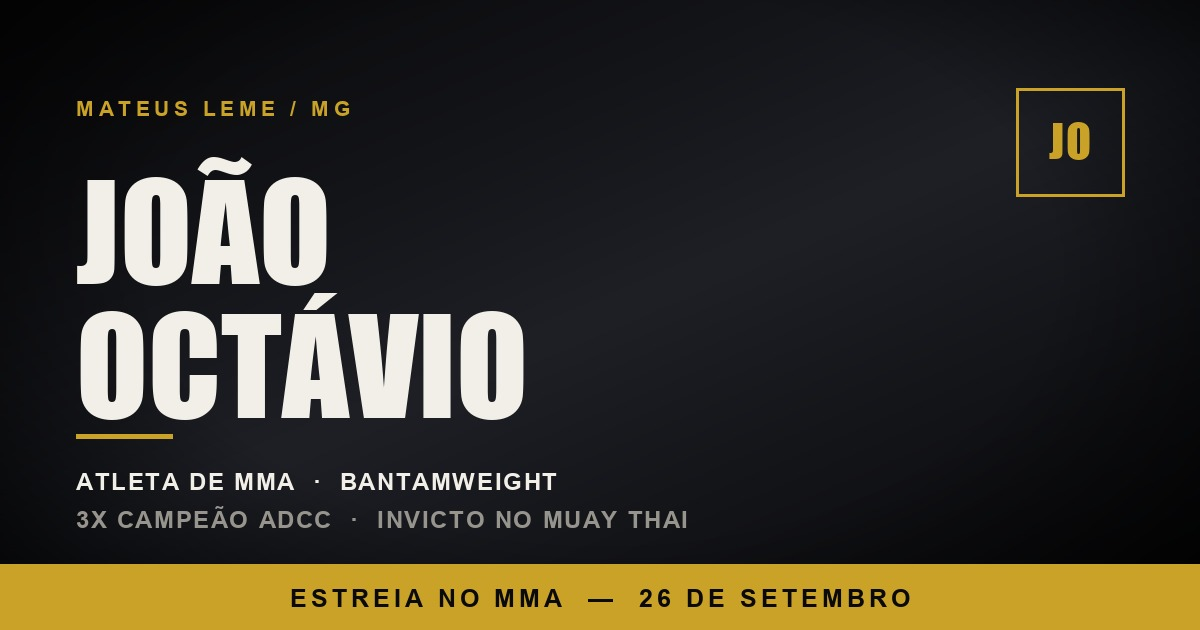
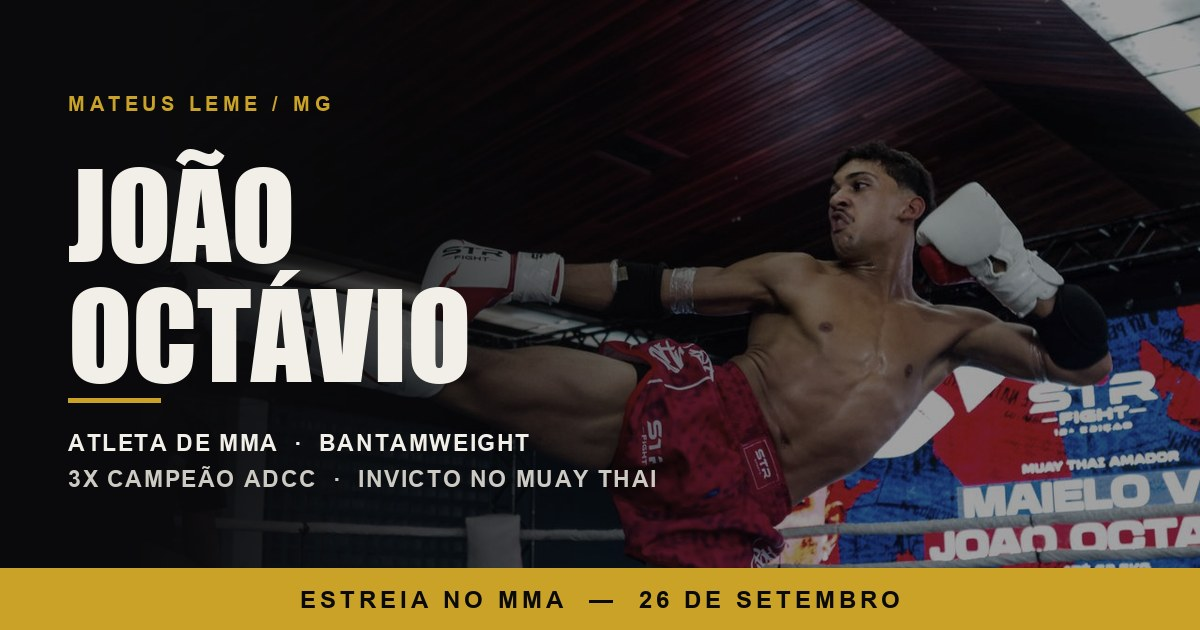
feat: fotos reais do Joao no hero, cartel e rotina; preparacao fisica de manha
- hero full-bleed com a foto do chute alto (S1R Fight)
- podio ADCC Latin America Open na secao de conquistas
- rotina vira 4 cards: preparacao fisica (manha), kickboxing, MMA, grappling
- og-image refeita com a foto real
- credito de foto no rodape

diff --git a/index.html b/index.html
@@ -33,6 +33,7 @@
 <link rel="icon" type="image/png" sizes="512x512" href="/icon-512.png">
 <link rel="apple-touch-icon" href="/apple-touch-icon.png">
 <link rel="manifest" href="/site.webmanifest">
+<link rel="preload" as="image" href="img/hero.jpg" fetchpriority="high">
 <link rel="preconnect" href="https://fonts.googleapis.com">
 <link rel="preconnect" href="https://fonts.gstatic.com" crossorigin>
 <link href="https://fonts.googleapis.com/css2?family=Anton&family=Archivo:wght@400;600;700&display=swap" rel="stylesheet">
@@ -120,13 +121,17 @@ nav{
   background:linear-gradient(160deg,#0A0A0C 0%,#16171B 60%,#0A0A0C 100%);
   position:relative;overflow:hidden;
 }
-/* SUBSTITUIR: foto editorial do João de capuz preto, luz dura, 1400x900px
-   (existe esse ensaio no feed dele — post fixado).
-   Aplicar aqui: .hero-foto{background-image:url('foto-hero.jpg')} */
-.hero-foto{position:absolute;inset:0;background-size:cover;background-position:center 20%;opacity:.55}
+.hero-foto{
+  position:absolute;inset:0;
+  background-image:url('img/hero.jpg');
+  background-size:cover;background-position:68% center;
+  filter:saturate(.62) contrast(1.05);
+}
 .hero::after{
   content:"";position:absolute;inset:0;pointer-events:none;
-  background:radial-gradient(120% 90% at 50% 40%,transparent 30%,rgba(10,10,12,.72) 78%,#0A0A0C 100%);
+  background:
+    linear-gradient(90deg,#0A0A0C 0%,rgba(10,10,12,.95) 24%,rgba(10,10,12,.66) 50%,rgba(10,10,12,.28) 74%,rgba(10,10,12,.5) 100%),
+    linear-gradient(180deg,rgba(10,10,12,.88) 0%,rgba(10,10,12,.15) 30%,rgba(10,10,12,.2) 58%,#0A0A0C 100%);
 }
 .hero .wrap{position:relative;z-index:2}
 .hero h1{font-size:clamp(2.5rem,9.2vw,6.4rem);max-width:16ch}
@@ -145,7 +150,18 @@ nav{
 .cd-uni{font-size:.6rem;font-weight:700;text-transform:uppercase;letter-spacing:.16em;color:var(--mute);margin-top:8px}
 .cd-fim{font-family:'Anton',sans-serif;text-transform:uppercase;font-size:1.15rem;color:var(--dourado);line-height:1.2}
 
+/* === FIGURA DE FOTO (reutilizável) === */
+.foto-card{position:relative;border:1px solid var(--linha);overflow:hidden;background:var(--grafite);margin:0}
+.foto-card img{width:100%;height:auto;display:block;filter:saturate(.72) contrast(1.04)}
+.foto-card figcaption{
+  position:absolute;left:0;right:0;bottom:0;padding:52px 20px 16px;
+  background:linear-gradient(180deg,transparent,rgba(10,10,12,.9));
+  font-size:.71rem;font-weight:700;text-transform:uppercase;letter-spacing:.14em;color:var(--texto);
+}
+.foto-card figcaption b{color:var(--dourado);font-weight:700}
+
 /* === CARTEL === */
+.conq-grid{display:grid;gap:36px;align-items:start}
 .stats{display:grid;grid-template-columns:1fr 1fr;gap:1px;background:var(--linha);border:1px solid var(--linha);margin-top:46px}
 .stat{background:var(--preto);padding:34px 22px}
 .stat-num{font-family:'Anton',sans-serif;font-size:clamp(2.6rem,10vw,4.2rem);color:var(--dourado);line-height:.9}
@@ -168,13 +184,13 @@ nav{
 
 /* === ROTINA === */
 .rotina-grid{display:grid;gap:20px;margin-top:46px}
-.rot-card{background:var(--grafite);border:1px solid var(--linha);overflow:hidden}
-/* SUBSTITUIR: fotos de treino — kickboxing, MMA, grappling, 1200x600px.
-   Aplicar como background-image em cada .rot-foto */
+.rot-card{background:var(--grafite);border:1px solid var(--linha);overflow:hidden;display:flex;flex-direction:column}
 .rot-foto{
-  height:190px;background:linear-gradient(140deg,#1E2026 0%,#16171B 55%,#0A0A0C 100%);
+  height:240px;background:linear-gradient(140deg,#1E2026 0%,#16171B 55%,#0A0A0C 100%);
   border-bottom:1px solid var(--linha);display:flex;align-items:center;justify-content:center;
+  overflow:hidden;flex-shrink:0;
 }
+.rot-foto img{width:100%;height:100%;object-fit:cover;object-position:center 18%;filter:saturate(.7) contrast(1.04)}
 .rot-foto svg{width:40px;height:40px;stroke:var(--dourado);opacity:.5}
 .rot-body{padding:24px 22px 28px}
 .rot-hora{font-size:.68rem;font-weight:700;text-transform:uppercase;letter-spacing:.18em;color:var(--dourado)}
@@ -265,7 +281,7 @@ footer{border-top:1px solid var(--linha);padding:52px 0 40px;font-size:.84rem;co
 }
 @media(min-width:768px){
   .pad{padding:118px 0}
-  .rotina-grid{grid-template-columns:repeat(3,1fr)}
+  .rotina-grid{grid-template-columns:repeat(2,1fr)}
   .cards3{grid-template-columns:repeat(3,1fr)}
   .cotas{grid-template-columns:repeat(3,1fr)}
   .f-grid{grid-template-columns:repeat(3,1fr)}
@@ -273,7 +289,8 @@ footer{border-top:1px solid var(--linha);padding:52px 0 40px;font-size:.84rem;co
 }
 @media(min-width:1024px){
   .nav-links{display:flex}
-  .stats{grid-template-columns:repeat(4,1fr)}
+  .conq-grid{grid-template-columns:1.1fr .9fr;gap:56px}
+  .rotina-grid{grid-template-columns:repeat(4,1fr)}
   .hero{align-items:center}
   .tl{padding-left:0;max-width:900px;margin-left:auto;margin-right:auto}
   .tl::before{left:50%;transform:translateX(-.5px)}
@@ -338,9 +355,12 @@ footer{border-top:1px solid var(--linha);padding:52px 0 40px;font-size:.84rem;co
 <section class="pad" id="conquistas">
   <div class="wrap">
     <p class="eyebrow rev">O cartel</p>
-    <h2 class="rev" style="font-size:clamp(1.9rem,6vw,3.2rem);max-width:20ch">Não é promessa. Está escrito em medalha.</h2>
 
-    <div class="stats rev">
+    <div class="conq-grid">
+     <div>
+      <h2 class="rev" style="font-size:clamp(1.9rem,6vw,3.2rem);max-width:20ch">Não é promessa. Está escrito em medalha.</h2>
+
+      <div class="stats rev">
       <div class="stat">
         <div class="stat-num" data-alvo="3" data-sufixo="x">0</div>
         <div class="stat-tit">Campeão ADCC Open</div>
@@ -362,6 +382,14 @@ footer{border-top:1px solid var(--linha);padding:52px 0 40px;font-size:.84rem;co
         <div class="stat-tit">De treino por dia</div>
         <div class="stat-sub">Dois turnos, todos os dias da semana</div>
       </div>
+      </div>
+     </div>
+
+     <figure class="foto-card rev">
+       <img src="img/adcc-podio.jpg" width="900" height="1200" loading="lazy" decoding="async"
+            alt="João Octávio sentado no pódio do ADCC Latin America Open com três medalhas no pescoço.">
+       <figcaption><b>ADCC Latin America Open</b> — o terceiro título</figcaption>
+     </figure>
     </div>
 
     <a href="#patrocinio" class="funil rev">Quero patrocinar
@@ -423,38 +451,49 @@ footer{border-top:1px solid var(--linha);padding:52px 0 40px;font-size:.84rem;co
   <div class="wrap">
     <p class="eyebrow rev">A rotina</p>
     <h2 class="rev" style="font-size:clamp(1.9rem,6vw,3.2rem)">Dois turnos. Todos os dias.</h2>
-    <p class="lead rev" style="margin-top:22px">Enquanto a cidade acorda, o primeiro treino já acabou. Dois turnos, seis horas por dia: kickboxing, MMA e grappling — no Xaropinho Kickboxing e no CT Sena Fight Team.</p>
+    <p class="lead rev" style="margin-top:22px">Enquanto a cidade acorda, a preparação física já acabou. Dois turnos, seis horas por dia: força e condicionamento, kickboxing, MMA e grappling — no Xaropinho Kickboxing e no CT Sena Fight Team.</p>
 
     <div class="rotina-grid">
-      <!-- SUBSTITUIR: foto de treino de kickboxing, 1200x600px -->
+      <!-- SUBSTITUIR: foto de preparação física / academia, 800x1000px -->
       <div class="rot-card rev">
         <div class="rot-foto">
-          <svg viewBox="0 0 24 24" fill="none" stroke-width="1.5" stroke-linecap="round" stroke-linejoin="round"><path d="M6 11V7a2 2 0 0 1 2-2h6a4 4 0 0 1 4 4v3a5 5 0 0 1-5 5H9a3 3 0 0 1-3-3z"/><path d="M6 16v2a2 2 0 0 0 2 2h5a2 2 0 0 0 2-2v-2"/></svg>
+          <svg viewBox="0 0 24 24" fill="none" stroke-width="1.5" stroke-linecap="round" stroke-linejoin="round"><path d="M6.5 6.5v11M3.5 9v6M17.5 6.5v11M20.5 9v6M6.5 12h11"/></svg>
         </div>
         <div class="rot-body">
-          <div class="rot-hora">Manhã &middot; 2h</div>
+          <div class="rot-hora">Manhã</div>
+          <h3 class="rot-tit">Preparação física</h3>
+          <p class="rot-txt">O dia abre com força e condicionamento. É o trabalho que sustenta o ritmo dos rounds e não aparece em nenhuma luta — mas decide todas.</p>
+        </div>
+      </div>
+      <div class="rot-card rev">
+        <div class="rot-foto">
+          <img src="img/rotina-kickboxing.jpg" width="800" height="1000" loading="lazy" decoding="async"
+               alt="João Octávio comemorando no ringue, de shorts vermelho de muay thai, durante o S1R Fight.">
+        </div>
+        <div class="rot-body">
+          <div class="rot-hora">Manhã</div>
           <h3 class="rot-tit">Kickboxing</h3>
           <p class="rot-txt">Trocação em pé no Xaropinho Kickboxing — a base que manteve o cartel invicto no muay thai.</p>
         </div>
       </div>
-      <!-- SUBSTITUIR: foto de treino de MMA, 1200x600px -->
       <div class="rot-card rev">
         <div class="rot-foto">
-          <svg viewBox="0 0 24 24" fill="none" stroke-width="1.5" stroke-linecap="round" stroke-linejoin="round"><path d="M12 3l8 4.5v9L12 21l-8-4.5v-9z"/><path d="M12 12v9M12 12l8-4.5M12 12L4 7.5"/></svg>
+          <img src="img/rotina-mma.jpg" width="800" height="1000" loading="lazy" decoding="async"
+               alt="João Octávio com o braço erguido pela árbitra após vitória no ringue.">
         </div>
         <div class="rot-body">
-          <div class="rot-hora">Tarde &middot; 2h</div>
+          <div class="rot-hora">Tarde</div>
           <h3 class="rot-tit">MMA</h3>
           <p class="rot-txt">Jogo completo no CT Sena Fight Team: transições, clinch, luta de chão e sparring com foco na estreia.</p>
         </div>
       </div>
-      <!-- SUBSTITUIR: foto de treino de grappling, 1200x600px -->
       <div class="rot-card rev">
         <div class="rot-foto">
-          <svg viewBox="0 0 24 24" fill="none" stroke-width="1.5" stroke-linecap="round" stroke-linejoin="round"><circle cx="8" cy="8" r="4"/><circle cx="16" cy="16" r="4"/><path d="M11 11l2 2"/></svg>
+          <img src="img/rotina-grappling.jpg" width="800" height="1000" loading="lazy" decoding="async"
+               alt="João Octávio comemorando gritando após luta de jiu-jitsu.">
         </div>
         <div class="rot-body">
-          <div class="rot-hora">Noite &middot; 2h</div>
+          <div class="rot-hora">Noite</div>
           <h3 class="rot-tit">Grappling</h3>
           <p class="rot-txt">A arma principal. É daqui que saíram os três títulos ADCC e os campeonatos no-gi em Minas.</p>
         </div>
@@ -641,7 +680,9 @@ footer{border-top:1px solid var(--linha);padding:52px 0 40px;font-size:.84rem;co
         <p style="margin-top:6px"><a href="https://wa.me/55XXXXXXXXXXX?text=Quero%20patrocinar%20o%20Jo%C3%A3o%20Oct%C3%A1vio" target="_blank" rel="noopener">WhatsApp para patrocínio</a></p>
       </div>
     </div>
-    <p class="f-base">&copy; <span id="ano">2026</span> João Octávio. Todos os direitos reservados.</p>
+    <!-- SUBSTITUIR: confirmar/completar os créditos de foto com o João -->
+    <p class="f-base">Fotos: @minhafotonoesporte e demais fotógrafos dos eventos.<br>
+      &copy; <span id="ano">2026</span> João Octávio. Todos os direitos reservados.</p>
   </div>
 </footer>
 
